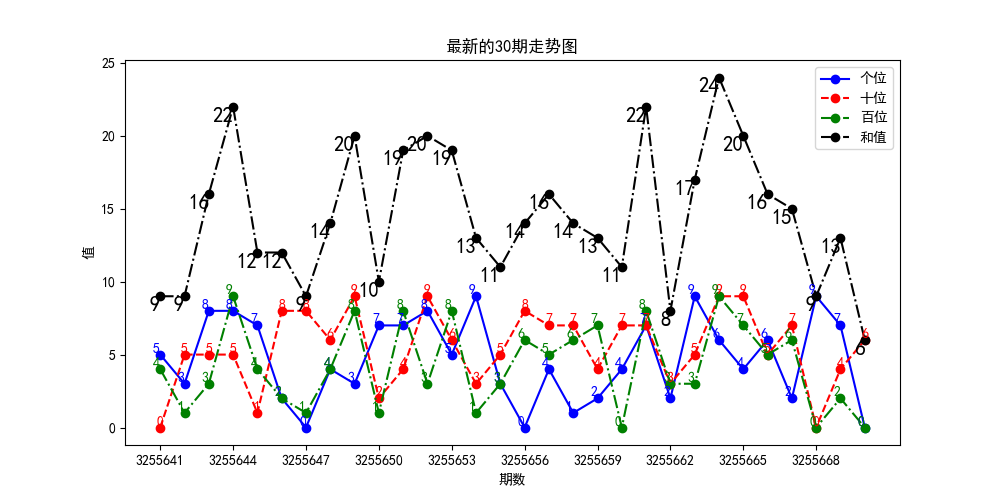
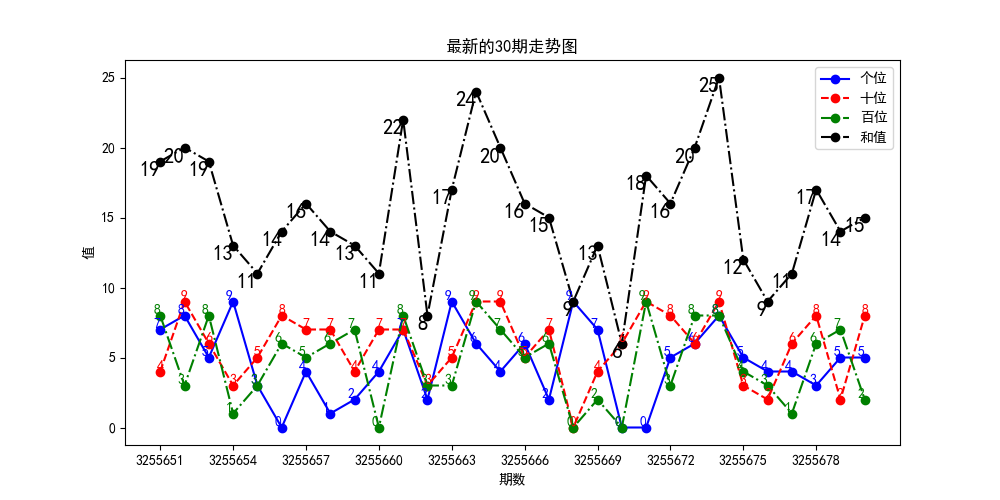
renew:

diff --git a/pc_ai/pc_json.py b/pc_ai/pc_json.py
@@ -241,7 +241,7 @@ def main():
             print(f"当前时间: {now.strftime('%Y-%m-%d %H:%M:%S')}")
 
             # 请求最新数据
-            res = request_data(100)
+            res = request_data(50)
             # 处理数据
             res_data = kai_data(res)
             print("--------------------------------已处理后的数据-------------------------------------------")
